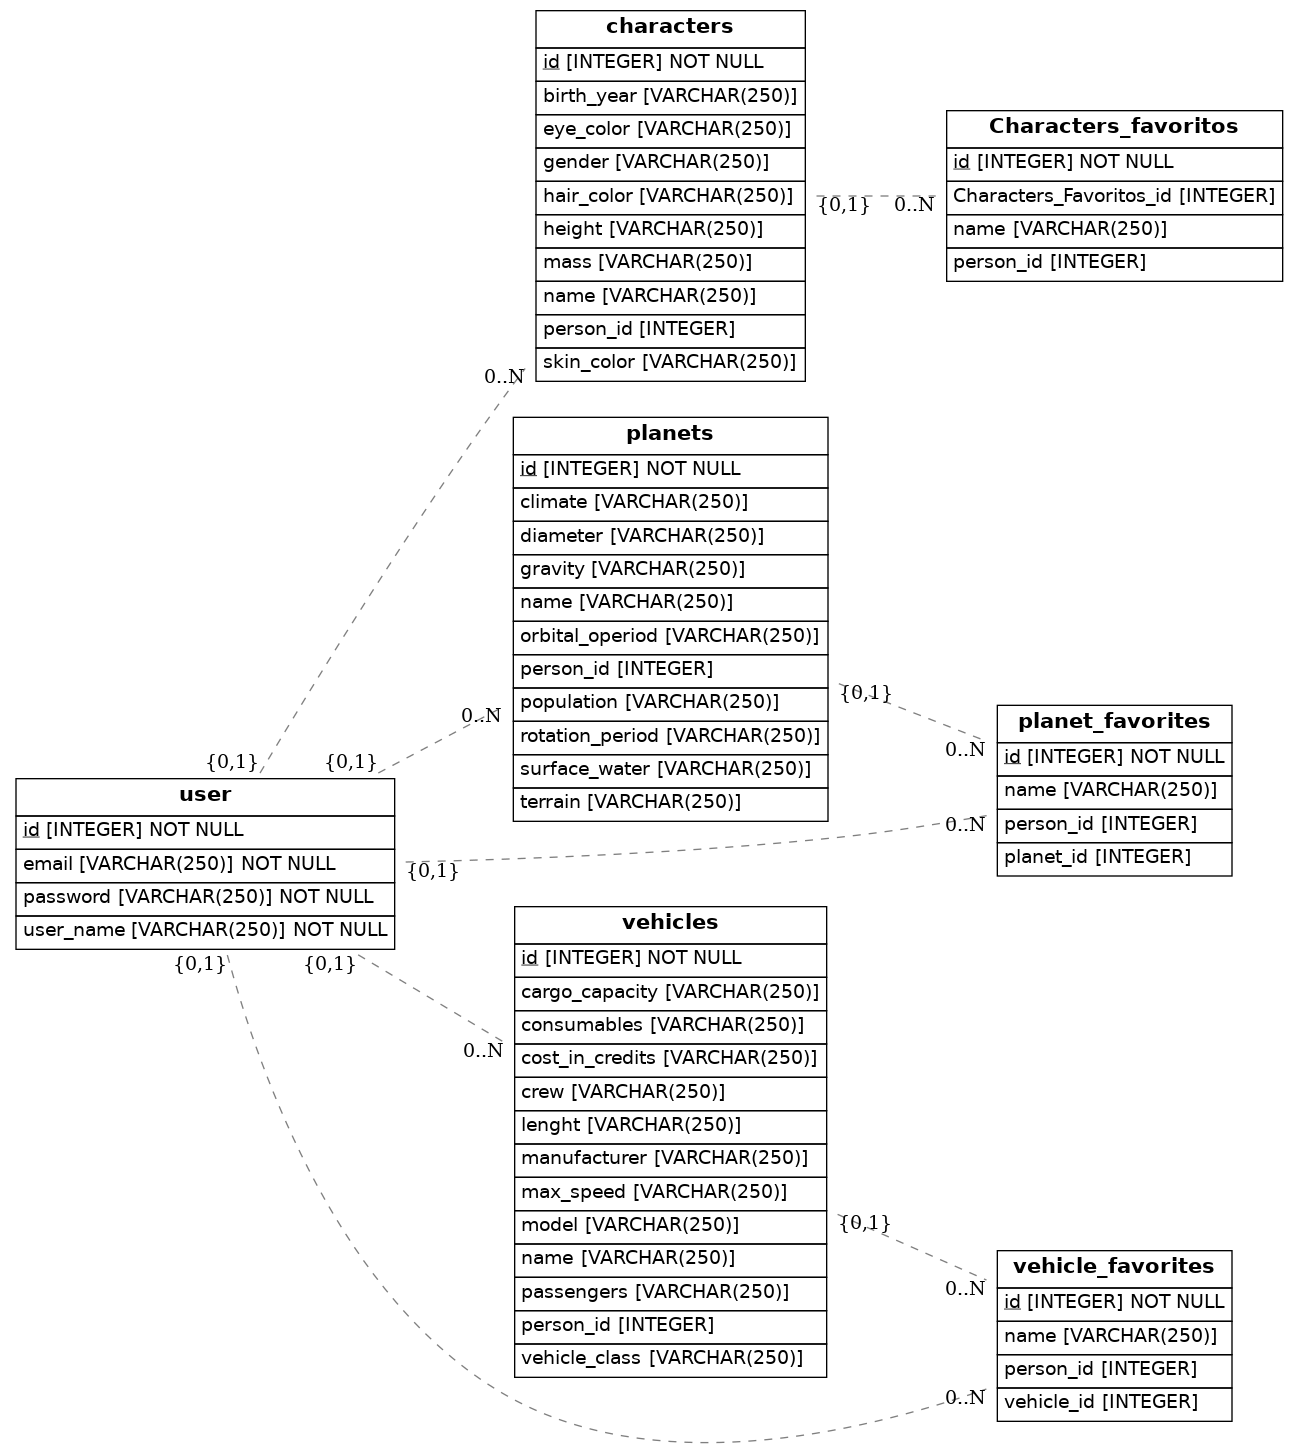
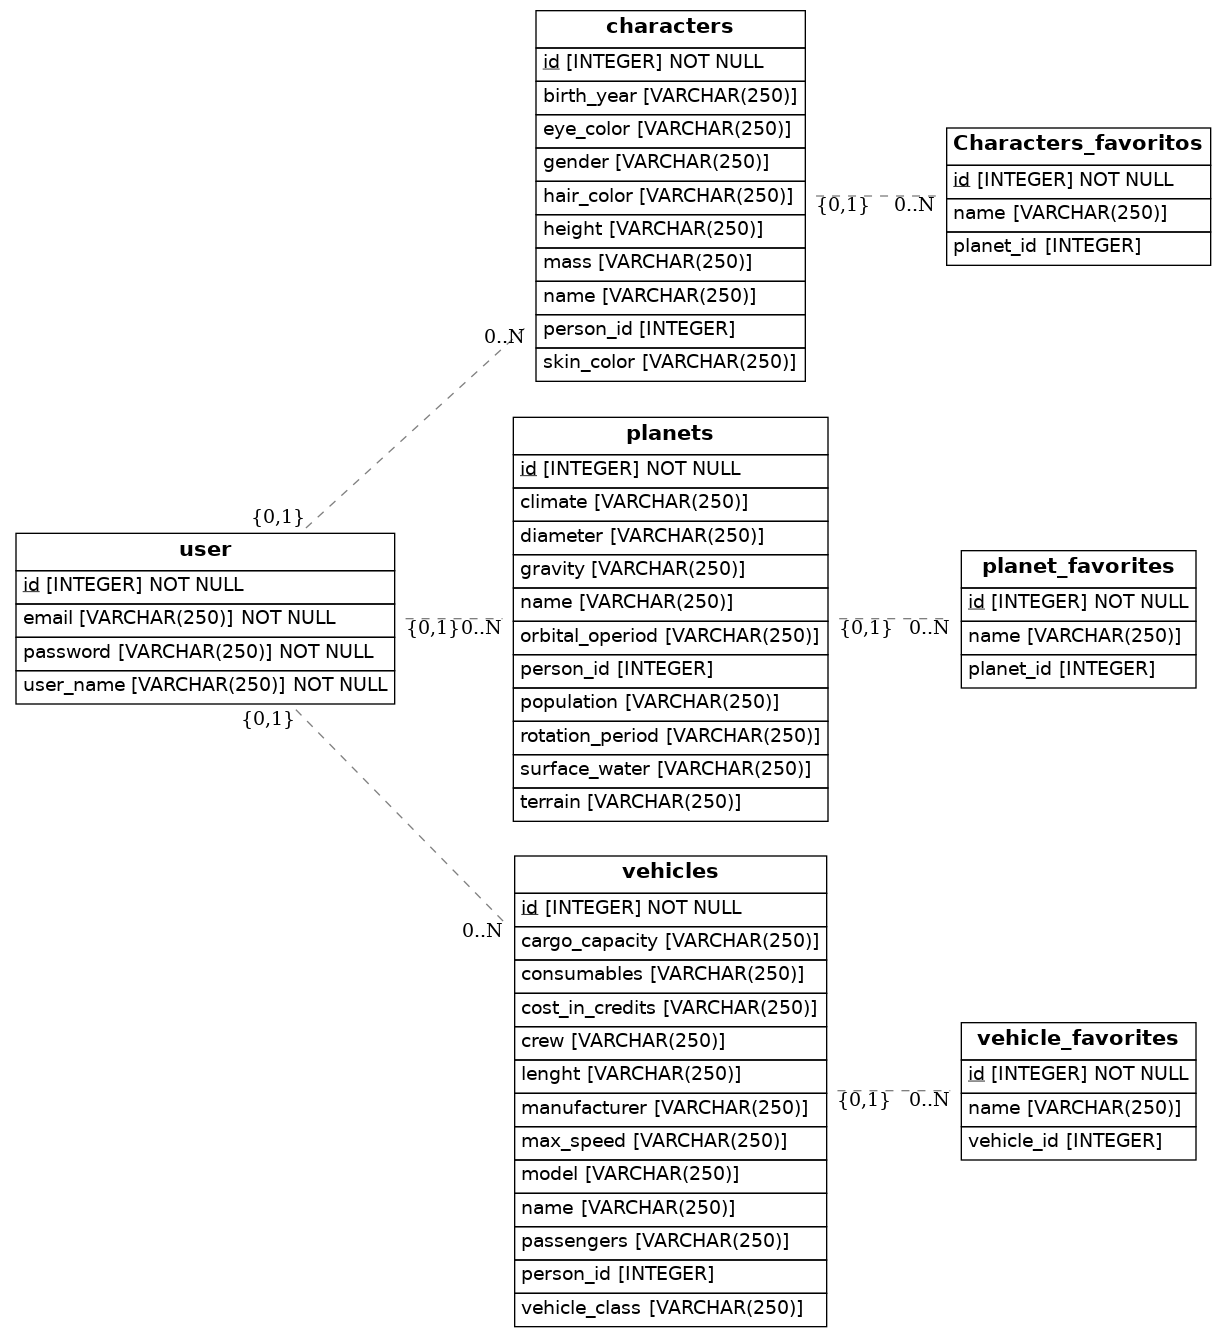
ejercicio rectificado

diff --git a/src/models.py b/src/models.py
@@ -36,15 +36,12 @@ class Characters(Base):
 
 class Characters_Favoritos(Base):
     __tablename__ = 'Characters_favoritos'
-    # Here we define columns for the table address.
-    # Notice that each column is also a normal Python instance attribute.
     id = Column(Integer, primary_key=True)
     name = Column(String(250))
-    Characters_Favoritos_id = Column(Integer, ForeignKey('character.id'))
-    person_id = Column(Integer, ForeignKey('characters.id'))
-    person = relationship(User)
+    planet_id = Column(Integer, ForeignKey('characters.id'))
 
-class Characters(Base):
+
+class Planets(Base):
     __tablename__ = 'planets'
     # Here we define columns for the table address.
     # Notice that each column is also a normal Python instance attribute.
@@ -62,18 +59,13 @@ class Characters(Base):
     person = relationship(User)
 class PlanetFavorites(Base):
     __tablename__ = 'planet_favorites'
-    # Here we define columns for the table address.
-    # Notice that each column is also a normal Python instance attribute.
     id = Column(Integer, primary_key=True)
     name = Column(String(250))
     planet_id = Column(Integer, ForeignKey('planets.id'))
-    person_id = Column(Integer, ForeignKey('user.id'))
-    person = relationship(User)
+    
 
 class Vehicles (Base):
     __tablename__ = 'vehicles'
-    # Here we define columns for the table address.
-    # Notice that each column is also a normal Python instance attribute.
     id = Column(Integer, primary_key=True)
     name = Column(String(250))
     model = Column(String(250))
@@ -91,13 +83,9 @@ class Vehicles (Base):
 
 class VehicleFavorites(Base):
     __tablename__ = 'vehicle_favorites'
-        # Here we define columns for the table address.
-        # Notice that each column is also a normal Python instance attribute.
     id = Column(Integer, primary_key=True)
     name = Column(String(250))
     vehicle_id = Column(Integer, ForeignKey('vehicles.id'))
-    person_id = Column(Integer, ForeignKey('user.id'))
-    person = relationship(User)
 
 
     def to_dict(self):
